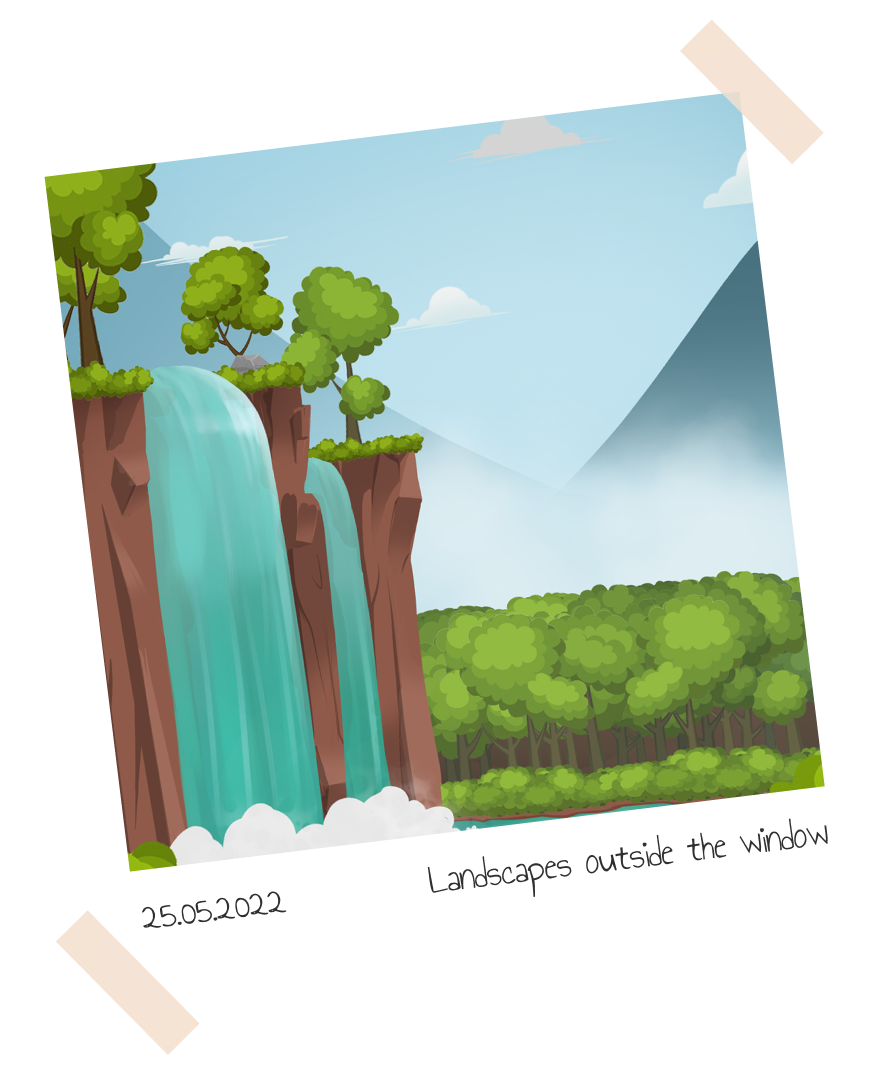
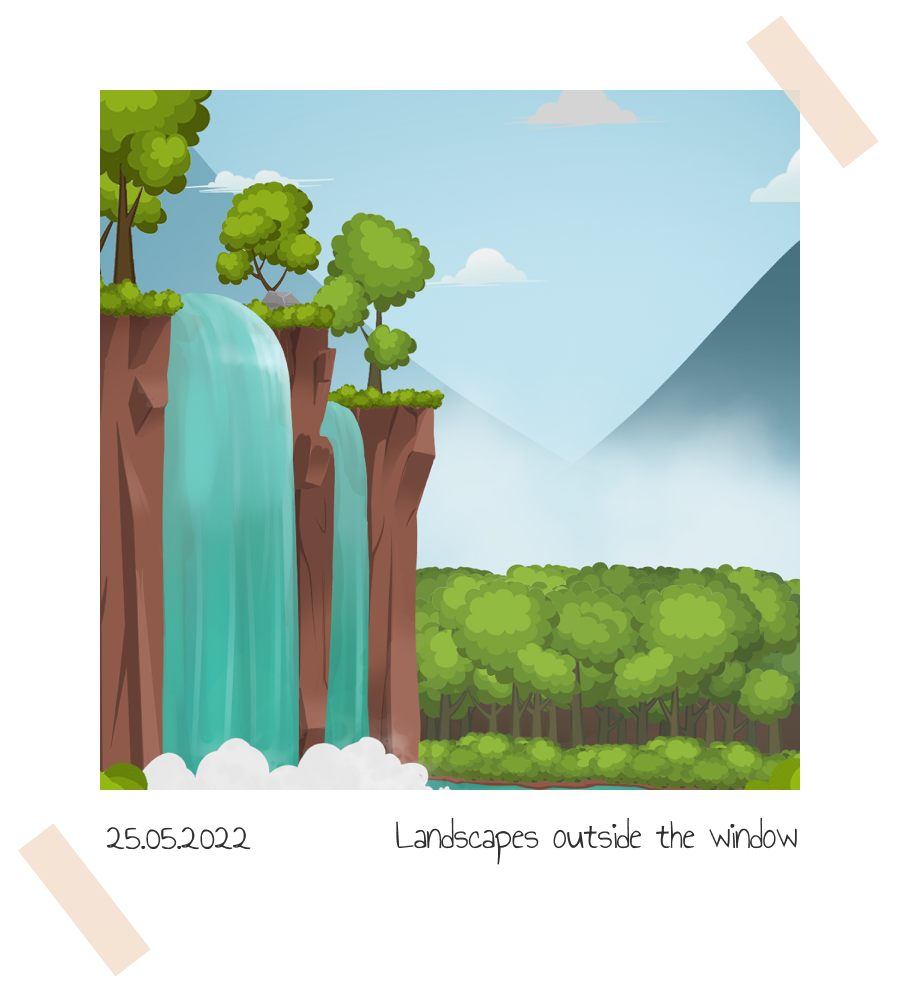
parallax

Changed region(s): [[0.0, 0.0, 0.9796, 1.0]]

diff --git a/src/sections/Memories.jsx b/src/sections/Memories.jsx
@@ -37,62 +37,52 @@ const Memories = () => {
                     loop={true}
                 >
                     <SwiperSlide>
-                        <div className={style.memories__slide}>
-
+                        <div className={style.memories__slide} style={{transform: 'rotateZ(10deg)'}}>
                             <img src={photoCard1} alt="" />
                         </div>
                     </SwiperSlide>
                     <SwiperSlide>
-                        <div className={style.memories__slide}>
-
+                        <div className={style.memories__slide} style={{transform: 'rotateZ(-10deg)'}}>
                             <img src={photoCard2} alt="" />
                         </div>
                     </SwiperSlide>
                     <SwiperSlide>
-                        <div className={style.memories__slide}>
-
+                        <div className={style.memories__slide} style={{transform: 'rotateZ(10deg)'}}>
                             <img src={photoCard3} alt="" />
                         </div>
                     </SwiperSlide>
                     <SwiperSlide>
-                        <div className={style.memories__slide}>
-
+                        <div className={style.memories__slide} style={{transform: 'rotateZ(-10deg)'}}>
                             <img src={photoCard4} alt="" />
                         </div>
                     </SwiperSlide>
                     <SwiperSlide>
-                        <div className={style.memories__slide}>
-
+                        <div className={style.memories__slide} style={{transform: 'rotateZ(10deg)'}}>
                             <img src={photoCard5} alt="" />
                         </div>
                     </SwiperSlide>
                     <SwiperSlide>
-                        <div className={style.memories__slide}>
-
+                        <div className={style.memories__slide} style={{transform: 'rotateZ(-10deg)'}}>
                             <img src={photoCard6} alt="" />
                         </div>
                     </SwiperSlide>
                     <SwiperSlide>
-                        <div className={style.memories__slide}>
-
+                        <div className={style.memories__slide} style={{transform: 'rotateZ(10deg)'}}>
                             <img src={photoCard7} alt="" />
                         </div>
                     </SwiperSlide>
                     <SwiperSlide>
-                        <div className={style.memories__slide}>
-
+                        <div className={style.memories__slide} style={{transform: 'rotateZ(-10deg)'}}>
                             <img src={photoCard8} alt="" />
                         </div>
                     </SwiperSlide>
                     <SwiperSlide>
-                        <div className={style.memories__slide}>
-
+                        <div className={style.memories__slide} style={{transform: 'rotateZ(10deg)'}}>
                             <img src={photoCard9} alt="" />
                         </div>
                     </SwiperSlide>
                     <SwiperSlide>
-                        <div className={style.memories__slide}>
-
+                        <div className={style.memories__slide} style={{transform: 'rotateZ(-10deg)'}}>
                             <img src={photoCard10} alt="" />
                         </div>
                     </SwiperSlide>

diff --git a/src/components/HeaderMobile/HeaderMobile.jsx b/src/components/HeaderMobile/HeaderMobile.jsx
@@ -1,7 +1,11 @@
+import style from './HeaderMobile.module.scss'
 import { useRef, useState } from 'react'
 import Contacts from '../Contacts/Contacts'
+
 import Logo from '../Logo/Logo'
-import style from './HeaderMobile.module.scss'
+
+import appStore from '../../img/app-store_btn.svg'
+import playMarket from '../../img/play-market_btn.svg'
 
 
 const HeaderMobile = () => {
@@ -16,10 +20,13 @@ const HeaderMobile = () => {
             setMenuState(false)
             menu.current.classList.toggle(style._active)
             menuList.current.classList.toggle(style._active)
+            document.querySelector('html').style.overflowY = 'auto'
         } else {
             setMenuState(true)
             menu.current.classList.toggle(style._active)
             menuList.current.classList.toggle(style._active)
+            document.querySelector('html').style.overflowY = 'hidden'
+
         }
     }
 
@@ -42,6 +49,14 @@ const HeaderMobile = () => {
                         </ul>
                         <div className={style.headerMobile__contactsWrapper}>
                             <Contacts />
+                        </div>
+                        <div className={style.headerMobile__links}>
+                            <a href="#">
+                                <img src={appStore} alt="Download from App Store" />
+                            </a>
+                            <a href="#">
+                                <img src={playMarket} alt="Download from Play Market" />
+                            </a>
                         </div>
                     </nav>
                 </div>

diff --git a/src/sections/Guide.jsx b/src/sections/Guide.jsx
@@ -3,7 +3,6 @@ import { useDispatch } from 'react-redux'
 import { useEffect, useRef } from 'react'
 import { setGuidePosAction } from '../store/sitePosReducer'
 import { AnimationOnScroll } from 'react-animation-on-scroll'
-import { Parallax } from 'react-parallax';
 
 import phone1 from '../img/guide/guide_phone-1.png'
 import phone2 from '../img/guide/guide_phone-2.png'
@@ -11,6 +10,7 @@ import phone3 from '../img/guide/guide_phone-3.png'
 import background from '../img//guide/guide_back.png'
 import background_m from '../img//guide/guide_back_mobile.png'
 import Clouds from '../components/Clouds/Clouds'
+import Parallax from '../components/Parallax/Parallax'
 
 const Guide = () => {
 
@@ -25,7 +25,9 @@ const Guide = () => {
 
     return (
         <div className={style.guideWrapper} ref={ref}>
-            <Parallax bgImage={window.innerWidth > 720 ? background : background_m} strength={300} bgImageStyle={{ transition: '.5' }}>
+            <Parallax
+                img={window.innerWidth > 720 ? background : background_m}
+                height={'auto'}>
                 <div className={style.guide}>
                     <div className="container">
                         <div className={style.guide__inner}>
@@ -55,6 +57,7 @@ const Guide = () => {
                     </div>
                 </div>
             </Parallax>
+
         </div>
     )
 }

diff --git a/src/sections/Progress.jsx b/src/sections/Progress.jsx
@@ -3,13 +3,13 @@ import { useDispatch } from 'react-redux'
 import { setProgressPosAction } from '../store/sitePosReducer'
 import { useEffect, useRef } from 'react'
 import { AnimationOnScroll } from 'react-animation-on-scroll'
-import { Parallax } from 'react-parallax';
 
 import phone1 from '../img/progress/progress_phone-1.png'
 import phone2 from '../img/progress/progress_phone-2.png'
 import background from '../img/progress/progress_back.png'
 import background_m from '../img/progress/progress_back_mobile.png'
 import Clouds from '../components/Clouds/Clouds'
+import Parallax from '../components/Parallax/Parallax'
 
 const Progress = () => {
 
@@ -25,7 +25,7 @@ const Progress = () => {
 
     return (
         <div className={style.progressWrapper} ref={ref}>
-            <Parallax bgImage={window.innerWidth > 720 ? background : background_m} strength={300}>
+            <Parallax img={window.innerWidth > 720 ? background : background_m} height={'auto'}>
                 <div className={style.progress}>
                     <div className="container">
                         <div className={style.progress__inner}>

diff --git a/src/components/HeaderMobile/HeaderMobile.module.scss b/src/components/HeaderMobile/HeaderMobile.module.scss
@@ -14,6 +14,7 @@
         position: absolute;
         // max-width: 290px;
         width: 100%;
+        height: 100vh;
         top: 80px;
         right: 0;
         background: #f8fbff;
@@ -60,7 +61,7 @@
             top: 14px;
             right: 3px;
             border-radius: 1px;
-            transition: .5s;
+            transition: .2s;
         }
         &_element2 {
             position: absolute;
@@ -70,7 +71,7 @@
             top: 23px;
             right: 3px;
             border-radius: 1px;
-            transition: .5s;
+            transition: .2s;
         }
         &._active{
             .headerMobile__burgerMenu_element1 {
@@ -89,7 +90,16 @@
         }
     }
     &__contactsWrapper{
-        padding: 60px 0;
+        padding: 60px 0 25px;
+    }
+    &__links {
+        display: flex;
+        justify-content: flex-start;
+        column-gap: 10px;
+        & img{
+            height: 40px;
+            width: 100%;
+        }
     }
 }
 

diff --git a/src/scss/Team.module.scss b/src/scss/Team.module.scss
@@ -18,7 +18,7 @@
         text-align: center;
         margin: 0 auto;
     }
-    &__guideText{
+    &__guideText {
         display: none;
     }
     &__list {
@@ -145,11 +145,11 @@
 @media (max-width: 720px) {
     .team {
         padding: 65px 0;
-        &__title{
+        &__title {
             font-size: 28px;
             line-height: 38px;
         }
-        &__subtitle{
+        &__subtitle {
             font-size: 18px;
             line-height: 24px;
         }
@@ -159,14 +159,14 @@
             text-align: center;
             row-gap: 10px;
         }
-        &__list{
+        &__list {
             margin-top: 0;
         }
         &__name,
         .team__position,
         .team__text {
             font-size: 18px;
-            line-height: 24зч;
+            line-height: 24px;
             margin-top: 5px;
         }
         &__position {

diff --git a/src/scss/MainScreen.module.scss b/src/scss/MainScreen.module.scss
@@ -70,10 +70,13 @@
 @media (max-width: 720px) {
     .mainScreenWrapper{
         height: fit-content;
+        background-image: url(../img//main-screen/main-banner_parralax.png);
+        background-size: contain;
     }
     .mainScreen {
         min-height: 490px;
         background-image: url(../img/main-screen/main-banner_mobile.png);
+        background-size: contain;
         padding-top: 40px;
         &__subtitle {
             font-weight: 700;

diff --git a/src/sections/Wave.jsx b/src/sections/Wave.jsx
@@ -1,10 +1,10 @@
 import style from '../scss/Wave.module.scss'
+import { useEffect, useRef } from 'react'
 import { useDispatch } from 'react-redux'
+import { setWavePosAction } from '../store/sitePosReducer'
 
 import appStore from '../img/app-store_btn.svg'
 import playMarket from '../img/play-market_btn.svg'
-import { setWavePosAction } from '../store/sitePosReducer'
-import { useEffect, useRef } from 'react'
 
 const Wave = () => {
 

diff --git a/src/scss/Memories.module.scss b/src/scss/Memories.module.scss
@@ -14,7 +14,9 @@
         max-width: 390px;
         // max-height: 440px;
         // width: 100%;
-        height: 100%;
+    }
+    &__slide{
+        padding: 30px 0;
     }
 }
 
@@ -34,6 +36,7 @@
         &__slide {
             width: 100vw;
             display: inline-grid;
+            padding: 30px 0;
         }
     }
 }

diff --git a/src/components/Parallax/Parallax.jsx b/src/components/Parallax/Parallax.jsx
@@ -1,0 +1,11 @@
+import style from './Parallax.module.scss'
+
+const Parallax = (props) => {
+    return(
+        <div className={style.parallax} style={{backgroundImage: `url(${props.img})`, height: `${props.height}px`}}>
+            {props.children}
+        </div>
+    )
+}
+
+export default Parallax

diff --git a/src/scss/AddWater.module.scss b/src/scss/AddWater.module.scss
@@ -84,8 +84,8 @@
         &__images {
             position: unset;
             display: flex;
-            flex-wrap: wrap;
-            justify-content: center;
+            flex-direction: column;
+            align-items: center;
             margin-top: 40px;
             row-gap: 40px;
         }

diff --git a/src/scss/Track.module.scss b/src/scss/Track.module.scss
@@ -146,8 +146,8 @@
             position: unset;
             margin: 0;
             display: flex;
-            justify-content: center;
-            flex-wrap: wrap;
+            flex-direction: column;
+            align-items: center;
             row-gap: 30px;
         }
         &__watch1 {
